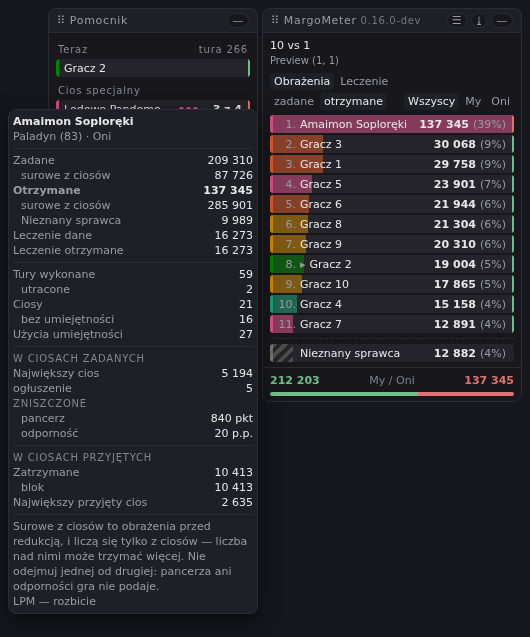
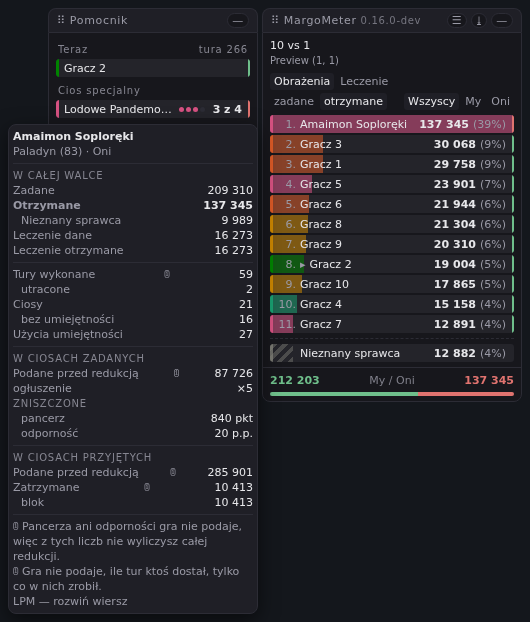
fix(ui): the mark a caveated figure wears stands at the figure
Found by looking at the shot rather than by a test, which is the reason
tools/panel-screenshots.ts refuses to finish without saying so.

`.tipLine` is `space-between` and `.tipLabel` sat at its natural width, so the
three children spread and the mark landed wherever the label happened to end.
On `Podane przed redukcją ⓘ 87 726` that is near the figure; on
`Tury wykonane ⓘ 59` it is mid-line, a column and a half from the number and
directly beside the words. Read as drawn, it marked the label.

CONTEXT.md says a caveat is marked *beside the figure*, DESIGN.md's own rule is
*a mark sits next to the figure it concerns*, and ADR 0088 says it stands before
the value. All three were true of the intent and false of the pixels.

`flex:1` on the label -- basis nought, grown -- pushes the mark against the value
wherever the label is short, and leaves it where it already was where the label is
long. `min-width:0` and the ellipsis are untouched, and the value keeps `flex:none`
so the right-aligned column of tabular figures does not move.

No test could have caught it: every assertion about the mark is about which line
carries it and which sentence it points at, and all of those were right. The one
guard over pixels is `tests/e2e/panel-tip.spec.ts`, and it asks whether a label is
cut -- not where a glyph between two cells comes to rest.

`deno task check` green. `deno task e2e` 101 green on Chrome, the label-cut guard
included, so the grown label cuts nothing that stood whole before.
[…]

diff --git a/src/ui/panel-look.ts b/src/ui/panel-look.ts
@@ -684,7 +684,11 @@ function composeTipRules(): string {
         `.${CLASS.tipLine}.${CLASS.tipSub}{padding-left:var(${VARIABLE_PREFIX}wide);}` +
         // Cut rather than wrapped, because a label that folded would stand the card wrong —
         // `MAXIMUM_LABEL_CHARACTERS` in `src/ui/panel-words.ts` is where that arithmetic is.
-        `.${CLASS.tipLabel}{color:var(${VARIABLE_PREFIX}quiet);min-width:0;` +
+        // `flex:1` and not `auto`: the mark a caveated figure wears sits between this and the
+        // value, and a label at its natural width leaves it stranded mid-line, beside the words
+        // rather than beside the figure it is about (`DESIGN.md`). Grown, the label pushes the
+        // mark against the value wherever the label is short.
+        `.${CLASS.tipLabel}{color:var(${VARIABLE_PREFIX}quiet);flex:1;min-width:0;` +
         `overflow:hidden;text-overflow:ellipsis;white-space:nowrap;}` +
         `.${CLASS.tipValue}{font-variant-numeric:tabular-nums;flex:none;}` +
         // No ink of its own: a caveat is an explanation and not an alarm, so it stays in the
